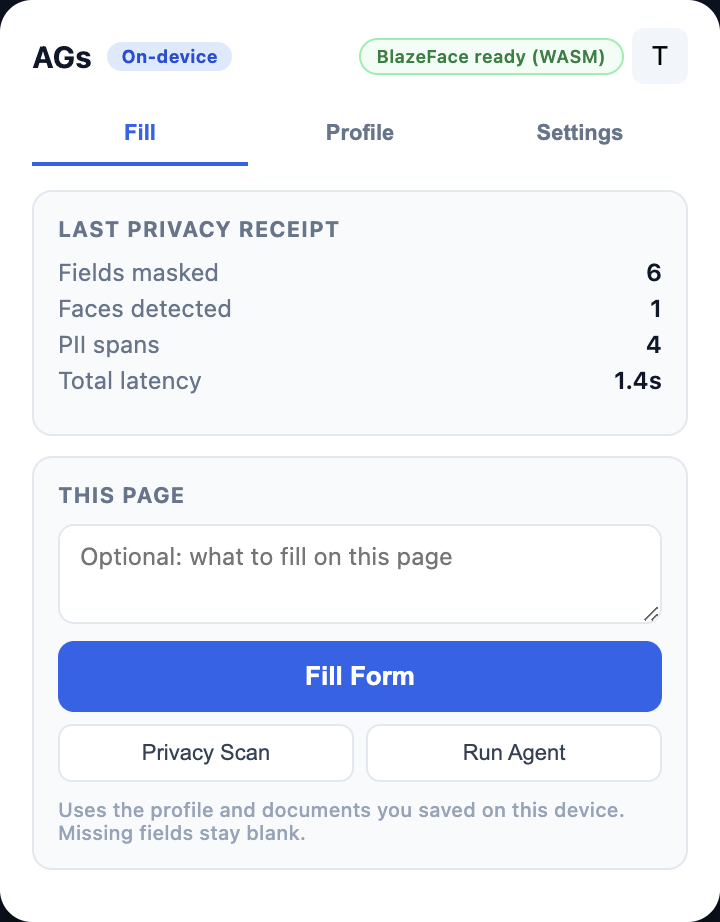
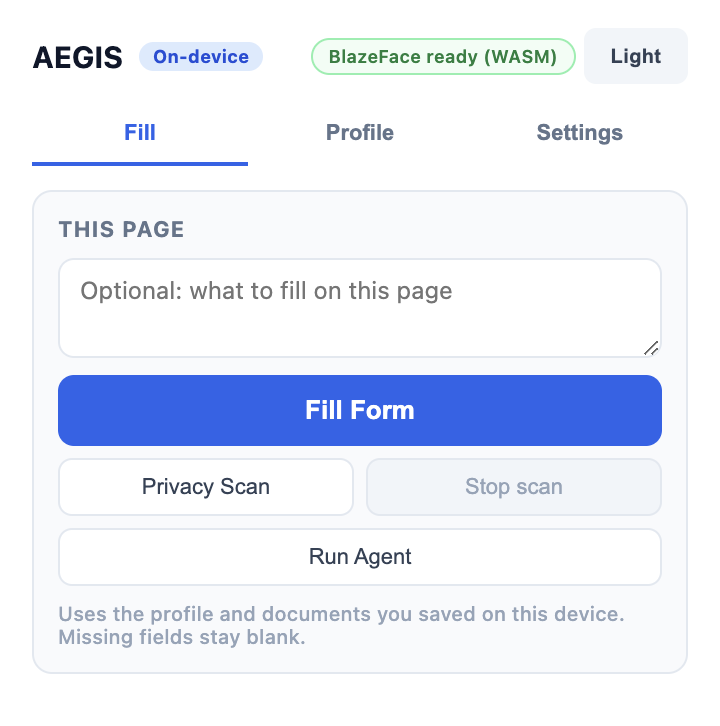
Use AEGIS as the product name everywhere Chrome and docs show it.
AGs was a demo short label. The lockup is AEGIS — Greek for a shield, protector, defender — so the toolbar, popup, README, screenshots, and pitch all match.

diff --git a/eval/harness/popup-ui.test.js b/eval/harness/popup-ui.test.js
@@ -11,6 +11,7 @@ const path = require("path");
 const ROOT = path.join(__dirname, "..", "..");
 const html = fs.readFileSync(path.join(ROOT, "src/popup/popup.html"), "utf8");
 const js = fs.readFileSync(path.join(ROOT, "src/popup/popup.js"), "utf8");
+const manifest = JSON.parse(fs.readFileSync(path.join(ROOT, "manifest.json"), "utf8"));
 
 let pass = 0;
 let fail = 0;
@@ -43,6 +44,16 @@ check("Save prompt exists", html.includes('id="doc-save-card"') && html.includes
 check("tour banner removed", !html.includes("tour-card"));
 check("voice mic removed from popup HTML", !html.includes("voice-start-btn"));
 check("Fill Form button present", html.includes('id="fill-btn"'));
+check("Product name is AEGIS in the popup header", html.includes("<h1>AEGIS</h1>") && html.includes("<title>AEGIS</title>"));
+check("Popup does not use the AGs short label", !/\bAGs\b/.test(html));
+check("Chrome card name is AEGIS", manifest.name === "AEGIS" && manifest.short_name === "AEGIS" && manifest.action.default_title === "AEGIS");
+const dashboardHtml = fs.readFileSync(path.join(ROOT, "src/dashboard/dashboard.html"), "utf8");
+const voiceHtml = fs.readFileSync(path.join(ROOT, "src/voice/voice.html"), "utf8");
+const autofillJs = fs.readFileSync(path.join(ROOT, "src/content/autofill.js"), "utf8");
+check("Dashboard chrome says AEGIS", dashboardHtml.includes("<title>AEGIS") && dashboardHtml.includes("<h1>AEGIS"));
+check("Voice page title is AEGIS", voiceHtml.includes("<title>AEGIS"));
+check("Autofill overlay uses AEGIS, not Aegis", autofillJs.includes("AEGIS — complete your profile") && autofillJs.includes("`AEGIS: ${fieldsCount} fields`") && !autofillJs.includes("<h2>Aegis"));
+check("Exported profile filename uses AEGIS", js.includes("`AEGIS_${name}.json`"));
 check("Privacy Scan present", html.includes('id="scan-btn"'));
 check("Stop scan button present and starts disabled", html.includes('id="stop-scan-btn"') && /id="stop-scan-btn"[^>]*disabled/.test(html));
 check("Theme button present", html.includes('id="theme-toggle-btn"') && html.includes("theme-btn"));

diff --git a/eval/harness/benchmark-runner.html b/eval/harness/benchmark-runner.html
@@ -7,13 +7,13 @@
   injects eval-harness.js into each, collects results,
   and displays an aggregate benchmark report in the UI.
   
-  USAGE: Open this file in Chrome with the Aegis extension loaded.
+  USAGE: Open this file in Chrome with the AEGIS extension loaded.
   Or simply open it as a standalone local file (file:// protocol).
 -->
 <html lang="en">
 <head>
   <meta charset="UTF-8" />
-  <title>Aegis — Benchmark Runner</title>
+  <title>AEGIS — Benchmark Runner</title>
   <style>
     * { box-sizing: border-box; margin: 0; padding: 0; }
     body { font-family: "Courier New", monospace; background: #0d1117; color: #c9d1d9; min-height: 100vh; padding: 24px; }
@@ -93,7 +93,7 @@
   </style>
 </head>
 <body>
-  <h1>Aegis — Evaluation Benchmark Runner</h1>
+  <h1>AEGIS — Evaluation Benchmark Runner</h1>
   <p class="subtitle">Automated PII detection evaluation across 7 synthetic test pages.</p>
 
   <div class="controls">

diff --git a/src/popup/popup.js b/src/popup/popup.js
@@ -303,7 +303,7 @@ document.getElementById("export-profile-btn")?.addEventListener("click", async (
   const stored = await chrome.storage.local.get("aegisCurrentProfile");
   const name = stored.aegisCurrentProfile || "Personal";
   const blob = new Blob([JSON.stringify({ profileName: name, data: profile }, null, 2)], { type: "application/json" });
-  const url = URL.createObjectURL(blob); const a = document.createElement("a"); a.href = url; a.download = `Aegis_${name}.json`; a.click(); URL.revokeObjectURL(url);
+  const url = URL.createObjectURL(blob); const a = document.createElement("a"); a.href = url; a.download = `AEGIS_${name}.json`; a.click(); URL.revokeObjectURL(url);
   setStatus(`Exported ${name} profile!`, "success");
 });
 document.getElementById("import-profile-btn")?.addEventListener("click", () => document.getElementById("import-file-input")?.click());

diff --git a/server/index.js b/server/index.js
@@ -1,6 +1,6 @@
-// Aegis Backend — local VLM gateway
+// AEGIS Backend — local VLM gateway
 // Runs on the operator's laptop. Exposes an OpenAI-compatible endpoint that
-// the Aegis extension talks to. Forwards requests to a local VLM runtime
+// the AEGIS extension talks to. Forwards requests to a local VLM runtime
 // (Ollama / LM Studio / llama.cpp server / vLLM) and normalizes the VLM's
 // output into the single-action JSON contract the extension expects.
 
@@ -406,7 +406,7 @@ const server = http.createServer(async (req, res) => {
 // as a module (eval harness), expose the pure helpers without side effects.
 if (require.main === module) {
   server.listen(CONFIG.port, CONFIG.host, () => {
-    log("INFO", "Aegis backend listening", {
+    log("INFO", "AEGIS backend listening", {
       host: CONFIG.host,
       port: CONFIG.port,
       mock: CONFIG.mock,

diff --git a/src/background/background.js b/src/background/background.js
@@ -236,11 +236,11 @@ chrome.commands?.onCommand?.addListener(async (command) => {
   }
 });
 
-// ── Context Menu (Right-Click "Fill with Aegis Profile") ─────────
+// ── Context Menu (Right-Click "Fill with AEGIS Profile") ─────────
 chrome.runtime.onInstalled.addListener(() => {
   chrome.contextMenus?.create({
     id: "aegis_autofill_context",
-    title: "Fill Form with AGs Profile",
+    title: "Fill Form with AEGIS Profile",
     contexts: ["page", "editable"],
   });
 });
@@ -2046,7 +2046,7 @@ chrome.runtime.onInstalled.addListener(() => {
   try {
     chrome.contextMenus?.create?.({
       id: "aegis_autofill_context",
-      title: "Fill form from AGs profile",
+      title: "Fill form from AEGIS profile",
       contexts: ["page", "editable"],
     });
   } catch {

diff --git a/src/content/autofill.js b/src/content/autofill.js
@@ -283,7 +283,7 @@
     const badge = document.createElement("div");
     badge.className = "badge";
     const icon = isSuspicious ? "⚠" : "🛡";
-    const label = isSuspicious ? `Shield Alert: ${safetyWarnings[0]}` : `Aegis: ${fieldsCount} fields`;
+    const label = isSuspicious ? `Shield Alert: ${safetyWarnings[0]}` : `AEGIS: ${fieldsCount} fields`;
 
     badge.innerHTML = `
       <span>${icon} ${label}</span>
@@ -428,7 +428,7 @@
     const card = document.createElement("div");
     card.className = "card";
     card.innerHTML =
-      '<h2>Aegis — complete your profile</h2>' +
+      '<h2>AEGIS — complete your profile</h2>' +
       '<p>Answer once, saved on your device only. Never asked again.</p>';
 
     const inputsByKey = {};

diff --git a/eval/harness/privacy-payload.test.js b/eval/harness/privacy-payload.test.js
@@ -263,6 +263,7 @@ check("popup still maps STRUCTURE_CONSENT_REQUIRED", popupJs.includes("STRUCTURE
 check("Stop scan restores idle overlays", contentSrc.includes("REFRESH_IDLE_OVERLAY") && contentSrc.includes("scheduleSensitiveRescan"));
 check("Theme is light, dark, or system (not binary only)", popupJs.includes("prefers-color-scheme") && popupHtml.includes("theme-toggle-btn"));
 check("Stop scan control exists in popup", popupHtml.includes('id="stop-scan-btn"'));
+check("Popup chrome says AEGIS, not AGs", popupHtml.includes("<h1>AEGIS</h1>") && !/\bAGs\b/.test(popupHtml));
 
 console.log("");
 if (fail) {

diff --git a/src/dashboard/dashboard.html b/src/dashboard/dashboard.html
@@ -2,7 +2,7 @@
 <html>
 <head>
   <meta charset="utf-8">
-  <title>Aegis — Privacy & Audit Dashboard</title>
+  <title>AEGIS — Privacy & Audit Dashboard</title>
   <style>
     * { box-sizing: border-box; margin: 0; padding: 0; }
     body {
@@ -43,7 +43,7 @@
 <body>
   <div class="header">
     <div>
-      <h1>Aegis Privacy & Audit Dashboard</h1>
+      <h1>AEGIS Privacy & Audit Dashboard</h1>
       <p class="subtitle">On-Device Security Metrics, Data Protection & Activity Log</p>
     </div>
     <button id="refresh-btn" class="btn btn-secondary">Refresh Data</button>

diff --git a/src/popup/popup.html b/src/popup/popup.html
@@ -2,7 +2,7 @@
 <html>
 <head>
   <meta charset="utf-8">
-  <title>AGs</title>
+  <title>AEGIS</title>
   <style>
     * { box-sizing: border-box; margin: 0; padding: 0; }
     @keyframes fadeIn { from { opacity: 0; transform: translateY(4px); } to { opacity: 1; transform: translateY(0); } }
@@ -190,7 +190,7 @@
 <body>
   <div class="header">
     <div class="header-left">
-      <h1>AGs</h1>
+      <h1>AEGIS</h1>
       <span class="badge">On-device</span>
     </div>
     <div class="header-actions">

diff --git a/server/mock-client.js b/server/mock-client.js
@@ -1,4 +1,4 @@
-// Simulates the Aegis extension calling the backend:
+// Simulates the AEGIS extension calling the backend:
 // sends a sanitized image + page structure, expects a single action JSON.
 const BASE = process.env.BASE_URL || "http://127.0.0.1:8000";
 

diff --git a/src/voice/voice.html b/src/voice/voice.html
@@ -2,7 +2,7 @@
 <html>
 <head>
   <meta charset="utf-8">
-  <title>Aegis — Multilingual Voice Assistant</title>
+  <title>AEGIS — Multilingual Voice Assistant</title>
   <style>
     * { box-sizing: border-box; margin: 0; padding: 0; }
     body {

diff --git a/docs/INDUSTRY_PITCH_SCRIPT.md b/docs/INDUSTRY_PITCH_SCRIPT.md
@@ -1,4 +1,4 @@
-# Aegis — Industry review script
+# AEGIS — Industry review script
 
 **Use this as the single source of spoken truth.** Same words for the industry call, SIH, and any teammate who has to intro the product. Do not invent a second story.
 
@@ -13,7 +13,7 @@
 
 If the call dies, if you are nervous, if they interrupt — this is the product.
 
-1. **What it is.** Aegis is a Chrome extension that sits between your screen and any AI agent.
+1. **What it is.** AEGIS is a Chrome extension that sits between your screen and any AI agent. The name is from Greek: a shield — protector, defender.
 2. **What it does.** Before a screenshot leaves the laptop, it redacts faces, passwords, and personal data *on the device*. Only the cleaned picture is allowed to go to a model.
 3. **What it helps.** People get the convenience of an AI that can fill forms and click around the web — without handing a raw screenshot of their PAN, salary, or face to a server they will never see.
 4. **Where it comes from.** Smart India Hackathon 2026, problem **SIH26171**, given by **ISRO / Department of Space**: build a privacy-preserving vision agent that runs in the browser and sanitizes PII **before any network request**.
@@ -45,10 +45,10 @@ Do this on the machine that will be shared. Full click-path is in [`DEMO_RUNBOOK
 
 1. `bash scripts/build-dist.sh`
 2. Chrome → `chrome://extensions` → Load unpacked → **`dist/`** (never the repo root)
-3. On the Aegis card: **Allow access to file URLs** = ON
+3. On the AEGIS card: **Allow access to file URLs** = ON
 4. Open `eval/test-pages/tp08-kitchen-sink-registration.html`
 5. Confirm the sidebar face photo actually renders
-6. Open the Aegis popup once. Wait until the badge says **BlazeFace ready (WASM)**. First time can take up to a minute. Leave the popup open.
+6. Open the AEGIS popup once. Wait until the badge says **BlazeFace ready (WASM)**. First time can take up to a minute. Leave the popup open.
 7. Paste `eval/fixtures/dummy-profile-ananya.json` → **Save Profile**
 8. Turn **Scan human faces** ON
 9. Optional but better: `ollama serve` + `cd server && node index.js` + `curl http://localhost:8000/health` shows `"mock": false` and `"upstreamReachable": true`. Pre-warm with one Ollama request.
@@ -74,9 +74,9 @@ Spoken text is written to be read as-is. Short sentences on purpose.
 
 **SAY:**
 
-Thank you for making time. We are the team behind Aegis.
+Thank you for making time. We are the team behind AEGIS.
 
-In one sentence: Aegis is a Chrome extension that redacts your screen on the device, before any AI agent is allowed to see it.
+In one sentence: AEGIS is a Chrome extension that redacts your screen on the device, before any AI agent is allowed to see it.
 
 The problem statement is SIH 26171, from ISRO. They asked for a privacy-preserving vision agent in the browser that sanitizes PII before any network request.
 
@@ -148,7 +148,7 @@ What is not reasonable is sending the *secrets* along with the layout.
 
 The closest prior experiment we found was text-only, a BERT filter before ChatGPT. It never became a shipped screen agent. Nobody is doing real-time, on-device, visual plus DOM redaction before the screenshot leaves.
 
-That is the gap. Aegis is the layer that goes in front of any agent.
+That is the gap. AEGIS is the layer that goes in front of any agent.
 
 Concretely, it is a Chrome Manifest V3 extension.
 
@@ -213,7 +213,7 @@ This is a fake scholarship registration. Treat it as the loan form from the open
 On the left: an applicant photo — a real face.  
 In the form: passwords, card number, CVV, Aadhaar, PAN, name, college.
 
-If a normal agent screenshots this tab, all of that leaves the device. Watch what Aegis does instead.
+If a normal agent screenshots this tab, all of that leaves the device. Watch what AEGIS does instead.
 
 ---
 
@@ -282,7 +282,7 @@ That is actually the architecture. The privacy layer does not depend on the visi
 
 End to end: page with secrets, on-device detect, on-device mask, optional local agent on the *cleaned* frame, actions on the live DOM, trap fields left blank.
 
-Raw screenshot never left. That is Aegis.
+Raw screenshot never left. That is AEGIS.
 
 ---
 
@@ -352,7 +352,7 @@ Read this and then Privacy-scan only (Beats A and B). No Fill Form.
 
 **SAY:**
 
-Aegis is a Chrome extension that redacts your screen on the device before any AI agent sees it.
+AEGIS is a Chrome extension that redacts your screen on the device before any AI agent sees it.
 
 ISRO’s SIH problem 26171 asked for a privacy-preserving browser vision agent that sanitizes PII before any network request. Today’s agents screenshot everything and send it to the cloud. We put a local filter in front of that.
 
@@ -392,7 +392,7 @@ Read §0. Stop. Offer the demo.
 Use these words. If you don’t know, say “we have not measured that live yet” — do not guess a number.
 
 **“Isn’t this just a blur extension?”**  
-No. Blur-for-screenshots is a filter. Aegis is a gate in front of an *agent*. The model still has to click and type. We give it structure without secrets, then execute on the real DOM, where the password still exists locally.
+No. Blur-for-screenshots is a filter. AEGIS is a gate in front of an *agent*. The model still has to click and type. We give it structure without secrets, then execute on the real DOM, where the password still exists locally.
 
 **“Why not run the whole agent on device?”**  
 The redaction models are small enough for a tab. A general computer-use model is not, not at a quality that fills a messy form. Split: small models for secrets, large model for actions, and the large model is not allowed to see the secrets.
@@ -432,7 +432,7 @@ Use this table when you make slides, a one-pager, a LinkedIn post, or the SIH fo
 
 | Field | Canonical text |
 |---|---|
-| Product name | Aegis |
+| Product name | AEGIS |
 | One-liner | On-device visual perception for lightweight browser agents — redact the screen before the agent sees it. |
 | Category | Chrome extension (Manifest V3) + optional local vision-language model |
 | Problem code | SIH26171 |
